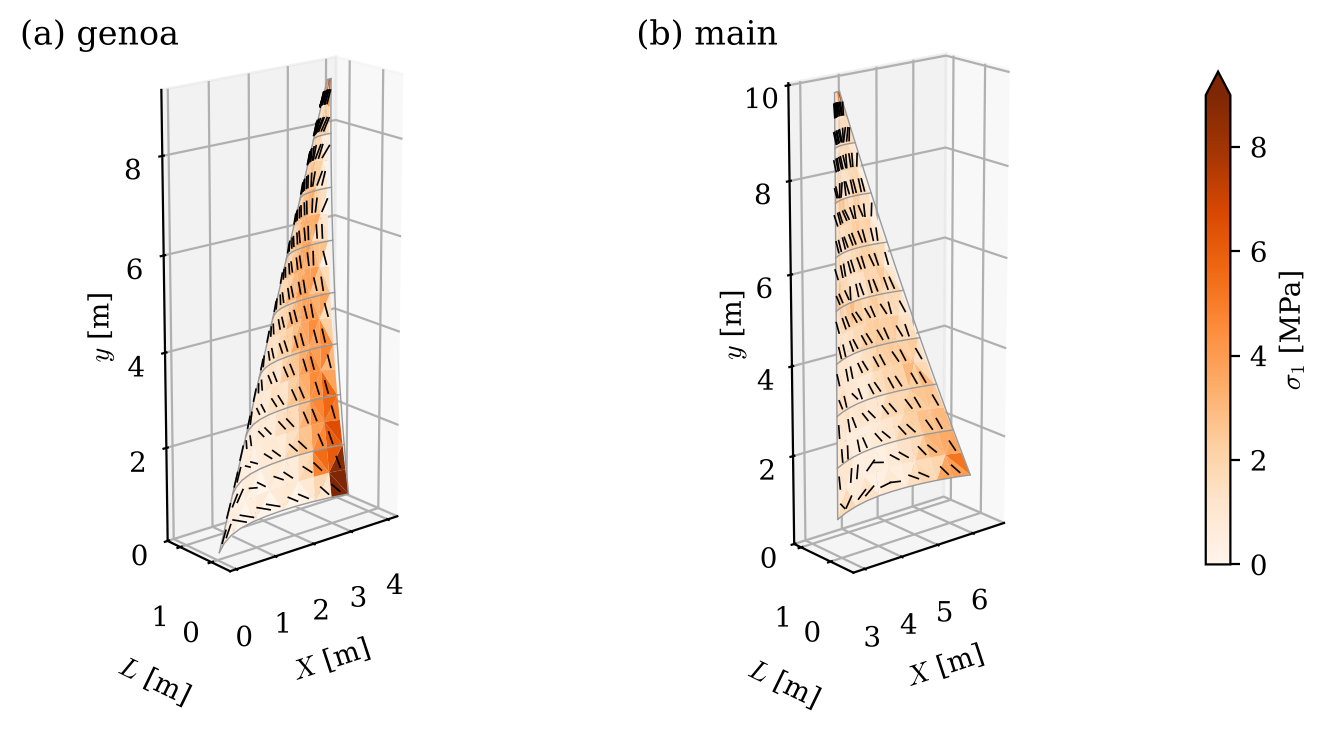
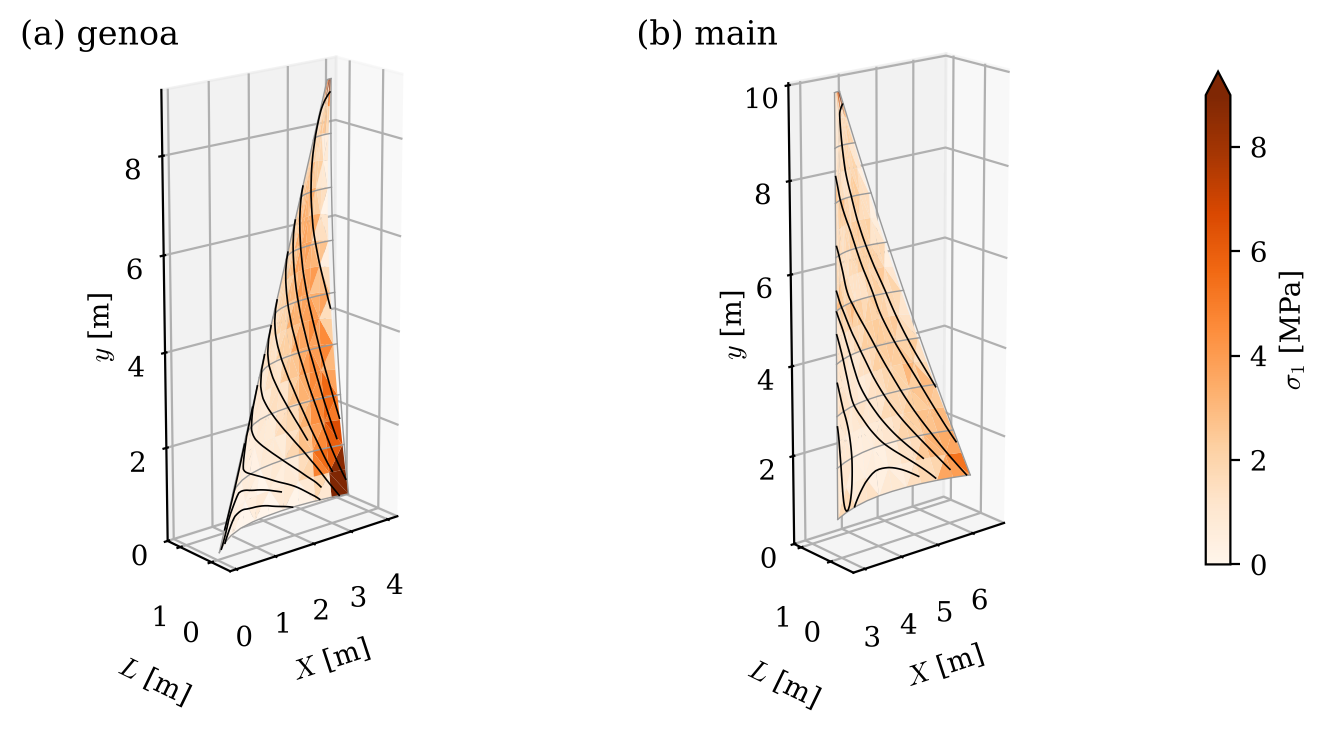
Stress trajectories instead of direction strokes on the J/80 sails
sail_plan.stress_trajectories integrates evenly spaced curves tangent to
the larger principal tension on each sail's grid coordinates: the Cauchy
tension tensor is averaged to the nodes, projected on the tangent plane of
the bilinear surface, and integrated by the midpoint rule with steps cut at
cell edges. Two tests check straight lines on a distorted grid and the arc
of the inflated strip. sail_membrane.tension_tensor returns the tensor.

Claude-Session: https://claude.ai/code/session_01XJiqXTYtW6zmfzTt9dTBSD

Changed region(s): [[0.6179, 0.1497, 0.7415, 0.6884], [0.1545, 0.1197, 0.2781, 0.7483]]

diff --git a/sail_plan.py b/sail_plan.py
@@ -228,6 +228,155 @@ def cloth_stress(model, points, t):
     return {"N": N, "sigma": N / t / 1e6, "direction": d, "state": state}
 
 
+# ------------------------------------------------------ stress trajectories
+
+def nodal_tension(model, points):
+    """Cauchy tension tensor averaged to the nodes, (nchord+1, nspan+1, 3, 3).
+
+    The Cartesian components are averaged with the triangle areas as
+    weights, which does not depend on any surface basis; each query point
+    then projects the interpolated tensor on its own tangent plane.
+    """
+    nc, ns = points.shape[0] - 1, points.shape[1] - 1
+    x = points.reshape(-1, 3)
+    tris = model["tris"]
+    N = sm.tension_tensor(model, x)
+    xe = x[tris]
+    area = 0.5 * np.linalg.norm(np.cross(xe[:, 1] - xe[:, 0],
+                                         xe[:, 2] - xe[:, 0]), axis=1)
+    acc = np.zeros((len(x), 3, 3))
+    wsum = np.zeros(len(x))
+    for k in range(3):
+        np.add.at(acc, tris[:, k], area[:, None, None] * N)
+        np.add.at(wsum, tris[:, k], area)
+    return (acc / wsum[:, None, None]).reshape(nc + 1, ns + 1, 3, 3)
+
+
+def _cell(points, u):
+    """Bilinear position, tangent basis (3, 2) and cell weights at u."""
+    nc, ns = points.shape[0] - 1, points.shape[1] - 1
+    i = min(int(np.floor(u[0])), nc - 1)
+    j = min(int(np.floor(u[1])), ns - 1)
+    s, t = u[0] - i, u[1] - j
+    p00, p10 = points[i, j], points[i + 1, j]
+    p01, p11 = points[i, j + 1], points[i + 1, j + 1]
+    x = ((1 - s) * (1 - t) * p00 + s * (1 - t) * p10 + (1 - s) * t * p01
+         + s * t * p11)
+    a1 = (1 - t) * (p10 - p00) + t * (p11 - p01)
+    a2 = (1 - s) * (p01 - p00) + s * (p11 - p10)
+    w = (i, j, s, t)
+    return x, np.stack([a1, a2], axis=1), w
+
+
+def principal_direction(points, tensor, u, prev=None):
+    """Unit tangent of the larger principal tension at grid point u.
+
+    The grid indices (i, j) are the surface coordinates and the bilinear
+    surface through the nodes has the tangent basis a = dx/du (3, 2). With
+    the bilinearly interpolated nodal tension N, the principal directions
+    solve a^T N a p = lambda a^T a p. Returns the step direction in grid
+    coordinates scaled to unit length in space, with the sign that continues
+    `prev`. Returns None where the two principal tensions coincide.
+    """
+    _, a, (i, j, s, t) = _cell(points, u)
+    N = ((1 - s) * (1 - t) * tensor[i, j] + s * (1 - t) * tensor[i + 1, j]
+         + (1 - s) * t * tensor[i, j + 1] + s * t * tensor[i + 1, j + 1])
+    T = a.T @ N @ a
+    g = a.T @ a
+    L = np.linalg.cholesky(g)
+    Li = np.linalg.inv(L)
+    w, v = np.linalg.eigh(Li @ T @ Li.T)
+    if w[1] - w[0] <= 1e-9 * max(abs(w[1]), 1e-300):
+        return None
+    p = Li.T @ v[:, 1]
+    p = p / np.linalg.norm(a @ p)
+    if prev is not None and p @ g @ prev < 0.0:
+        p = -p
+    return p
+
+
+def stress_trajectories(model, points, spacing, step=None, max_steps=2000):
+    """Curves on the sail tangent everywhere to the larger principal tension.
+
+    Evenly spaced tensor lines in the manner of Jobard and Lefer (1997):
+    seeds are tried at every cell centre in order of decreasing tension, and
+    a seed farther than `spacing` [m] from every line drawn so far starts a
+    line, integrated both ways by the midpoint rule with steps of `step` [m]
+    in space, cut short at every cell edge so that no step straddles the
+    kink of the bilinear surface there, and stopped at the edge of the sail, at a degenerate point, or
+    within spacing / 2 of another line. Returns a list of (n, 3) polylines
+    on the surface, in the frame of `points`.
+    """
+    nc, ns = points.shape[0] - 1, points.shape[1] - 1
+    step = step or 0.25 * spacing
+    tensor = nodal_tension(model, points)
+    centres = [(i + 0.5, j + 0.5) for i in range(nc) for j in range(ns)]
+    # seeds in order of decreasing mean tension, the trace of N
+    mag = [np.trace(tensor[int(c[0]), int(c[1])]) for c in centres]
+    order = np.argsort(mag)[::-1]
+    lines, cloud = [], np.zeros((0, 3))
+
+    def near(x, dist):
+        return len(cloud) and np.min(np.sum((cloud - x) ** 2, axis=1)) \
+            < dist * dist
+
+    def inside(u):
+        return 0.0 <= u[0] <= nc and 0.0 <= u[1] <= ns
+
+    def to_edge(u, p):
+        """Distance in space along p to the edge of the cell u is in."""
+        d = np.inf
+        for k in (0, 1):
+            if p[k] > 0.0:
+                d = min(d, (np.floor(u[k]) + 1.0 - u[k]) / p[k])
+            elif p[k] < 0.0:
+                d = min(d, (u[k] - np.floor(u[k])) / -p[k])
+        return d
+
+    def march(u0, p0):
+        u, prev, out = np.array(u0, float), p0, []
+        for _ in range(max_steps):
+            k1 = principal_direction(points, tensor, u, prev)
+            if k1 is None:
+                break
+            # stop at the cell edge, where the bilinear surface has a kink,
+            # and step just across it, so that every step lies in one cell
+            h = min(step, to_edge(u, k1))
+            cross = h < step
+            um = u + 0.5 * h * k1
+            k2 = principal_direction(points, tensor, um, k1)
+            if k2 is None:
+                break
+            un = u + h * k2
+            if cross:
+                un = un + 1e-9 * k2
+            if not inside(un):
+                break
+            xn = _cell(points, un)[0]
+            if near(xn, 0.5 * spacing):
+                break
+            out.append(xn)
+            u, prev = un, k2
+        return out
+
+    for k in order:
+        u0 = np.array(centres[k])
+        x0 = _cell(points, u0)[0]
+        if near(x0, spacing):
+            continue
+        p0 = principal_direction(points, tensor, u0)
+        if p0 is None:
+            continue
+        fwd = march(u0, p0)
+        bwd = march(u0, -p0)
+        line = np.array(bwd[::-1] + [x0] + fwd)
+        if len(line) < 3:
+            continue
+        lines.append(line)
+        cloud = np.vstack([cloud, line])
+    return lines
+
+
 # ------------------------------------------------------------------ output
 
 def to_boat(p, awa):
@@ -248,8 +397,8 @@ def element_values(field, model, pts0, pts, t):
 
 def plot_plan(sails, res, case, field, awa, save=None):
     """One 3D panel per sail, coloured by `field` on the flying shape, with
-    the moulded shape as a grey wireframe; for the stress, short black
-    strokes along the larger principal direction. One colour scale for both
+    the moulded shape as a grey wireframe; for the stress, the stress
+    trajectories: black curves tangent everywhere to sigma_1. One colour scale for both
     sails; the stress scale saturates at the 99th percentile, because the
     pinned corners carry stresses that grow with mesh refinement."""
     import matplotlib.pyplot as plt
@@ -280,15 +429,11 @@ def plot_plan(sails, res, case, field, awa, save=None):
         for i in (0, -1):
             ax.plot(*P0[i, :].T, color="0.6", lw=0.5)
         if direction is not None:
-            aft, lee = boat_axes(awa)
-            d = np.stack([direction @ aft, direction @ lee,
-                          direction[:, 1]], axis=1)
-            c = tri.mean(axis=1)
-            half = 0.3 * np.ptp(P[..., 2]) / P.shape[1]
-            seg = np.stack([c - half * d, c + half * d], axis=1)[::2]
-            # lifted a little to leeward so that they sit on the surface
-            seg[..., 1] += 0.02
-            ax.add_collection3d(Line3DCollection(seg, colors="k",
+            spacing = 0.04 * np.ptp(P[..., 2])
+            lines = [to_boat(c, awa)
+                     for c in stress_trajectories(model, res[n]["points"],
+                                                  spacing)]
+            ax.add_collection3d(Line3DCollection(lines, colors="k",
                                                  linewidths=0.6))
         # each panel on its own sail, at equal scale in all three axes
         plo, phi = P.reshape(-1, 3).min(axis=0), P.reshape(-1, 3).max(axis=0)

diff --git a/test_sail.py b/test_sail.py
@@ -151,6 +151,48 @@ class TestSailPlan(unittest.TestCase):
         self.assertAlmostEqual(lp, case["lp"] * J, delta=0.02 * J)
 
 
+class TestStressTrajectories(unittest.TestCase):
+
+    def test_uniform_stretch_on_a_distorted_grid_gives_straight_lines(self):
+        import sail_membrane as sm
+        import sail_plan as sp
+        import verify_sail as vs
+        nc, ns = 10, 8
+        X = vs.flat_grid(nc, ns, 2.0, 1.6, jitter=0.25)
+        m = sm.build_model(X, sm.grid_triangles(nc, ns), 1000.0, 0.3)
+        th = np.radians(30.0)
+        R = np.array([[np.cos(th), -np.sin(th), 0.0],
+                      [np.sin(th), np.cos(th), 0.0], [0.0, 0.0, 1.0]])
+        D = R @ np.diag([1.03, 1.005, 1.0]) @ R.T
+        lines = sp.stress_trajectories(m, (X @ D.T).reshape(nc + 1, ns + 1,
+                                                            3), 0.15)
+        self.assertGreaterEqual(len(lines), 8)
+        normal = np.array([-np.sin(th), np.cos(th), 0.0])
+        drift = max(np.ptp(L @ normal) for L in lines)
+        self.assertLess(drift, 3e-3)                # 1.9 mm over 2.4 m
+
+    def test_inflated_strip_lines_follow_the_arc(self):
+        import sail_membrane as sm
+        import sail_plan as sp
+        import verify_sail as vs
+        nc, ns = 16, 4
+        X = vs.flat_grid(nc, ns, 1.0, 0.4)
+        fixed = np.zeros_like(X, dtype=bool)
+        fixed[:, 1] = True
+        for j in range(ns + 1):
+            fixed[sm.node_id(0, j, ns)] = fixed[sm.node_id(nc, j, ns)] = True
+        m = sm.build_model(X, sm.grid_triangles(nc, ns), 1000.0, 0.3, 0.01,
+                           fixed=fixed)
+        u = sm.solve_static(m, pressure=50.0)["u"]
+        lines = sp.stress_trajectories(m, (X + u).reshape(nc + 1, ns + 1, 3),
+                                       0.08)
+        self.assertEqual(len(lines), 4)
+        for L in lines:
+            self.assertLess(np.ptp(L[:, 1]), 1e-3)
+            self.assertGreater(np.ptp(L[:, 0]), 0.95)
+            self.assertGreater(L[:, 2].max(), 0.1)
+
+
 class TestTheory2D(unittest.TestCase):
 
     def test_rigid_limit_is_two_pi_alpha(self):

diff --git a/sail_membrane.py b/sail_membrane.py
@@ -589,6 +589,18 @@ def reactions(model, u, f_ext=None, pressure=0.0):
     return out.reshape(-1, 3)
 
 
+def tension_tensor(model, x):
+    """Cauchy membrane tension tensor of each triangle, (ne, 3, 3) [N/m].
+
+    N = F S F^T / J, J the area ratio: a tensor in space that lies in the
+    plane of the deformed triangle.
+    """
+    F, E = membrane_kinematics(model, x)
+    S, _, _ = membrane_stress(E, model["Et"], model["nu"], model["wrinkling"])
+    J = np.sqrt(np.linalg.det(np.einsum("ekI,ekJ->eIJ", F, F)))
+    return np.einsum("ekI,eIJ,elJ->ekl", F, S, F) / J[:, None, None]
+
+
 def membrane_tension(model, x):
     """True (Cauchy) membrane tension of each triangle at positions x.
 

diff --git a/docs/COUPLING.md b/docs/COUPLING.md
@@ -331,15 +331,34 @@ moving aft from 40% to 62% and 66%. The mainsail deepens from 11% to 12%.
 Figure 1 (`j80_displacement.png`): displacement magnitude from the moulded
 shape (grey wireframe) on the flying shape, for (a) the genoa and (b) the
 mainsail. Figure 2 (`j80_stress.png`): the larger principal stress sigma_1 on
-the flying shape, with black strokes along its direction, for (a) the genoa
-and (b) the mainsail. The colour saturates at the 99th percentile, 9.0 MPa.
+the flying shape, with its stress trajectories, the black curves tangent
+everywhere to sigma_1, for (a) the genoa and (b) the mainsail. The colour
+saturates at the 99th percentile, 9.0 MPa.
 Figure 3 (`j80_sections.png`): moulded (grey) and flying (black) sections at
 the foot and at a quarter, half and three quarters of the height, in boat
 axes, for (a) the genoa and (b) the mainsail.
 
-The stress paths in Figure 2 run from the clew up the leech of both sails and
-fan out from the genoa clew. Between the battens of the mainsail they run
-chordwise from the mast to the leech.
+In Figure 2 the trajectories fan out from the genoa clew and run up its
+leech, and they cross the mainsail diagonally from the clew to the luff.
+
+The trajectories (`sail_plan.stress_trajectories`) are integrated on the
+sail's own grid coordinates. The Cauchy tension tensor is averaged to the
+nodes in Cartesian components, which depend on no surface basis. At each
+point it is interpolated bilinearly and projected on the tangent plane of the
+bilinear surface through the nodes, where the principal direction solves
+a^T N a p = lambda a^T a p. Working with the tensor rather than with
+direction vectors removes the sign ambiguity of a principal direction. The
+lines are integrated by the midpoint rule, each step cut at the cell edge
+where the bilinear surface has a kink, and spaced evenly after Jobard and
+Lefer (1997), with seeds taken in order of decreasing tension. Two tests
+check them:
+- a uniform stretch at 30 degrees on a grid with nodes displaced by up to
+  25% of the spacing gives straight lines at 30 degrees, drifting sideways
+  by 1.9 mm over 2.4 m. The drift falls from 5.0 to 1.9 to 0.31 mm as the
+  step goes from 75 to 38 to 15 mm, i.e. at second order. Without the cut
+  at cell edges it was 27 mm and fell at first order;
+- on the inflated strip of S4, the lines follow the arc to its full sag of
+  0.117 m and stay within 0.1 mm of constant span.
 
 ### Mesh dependence
 

diff --git a/CLAUDE.md b/CLAUDE.md
@@ -36,7 +36,7 @@ configurations, the F and C cases and the J/80 application.
 
 ```bash
 python3 test_membrane.py          # 21 tests, ca. 2 s
-python3 test_sail.py              # 22 tests, ca. 4 s
+python3 test_sail.py              # 24 tests, ca. 4 s
 python3 test_vendored.py          # 4 tests: the fluid copies are unmodified
 python3 -m unittest test_sail.TestCoupling -v
 
